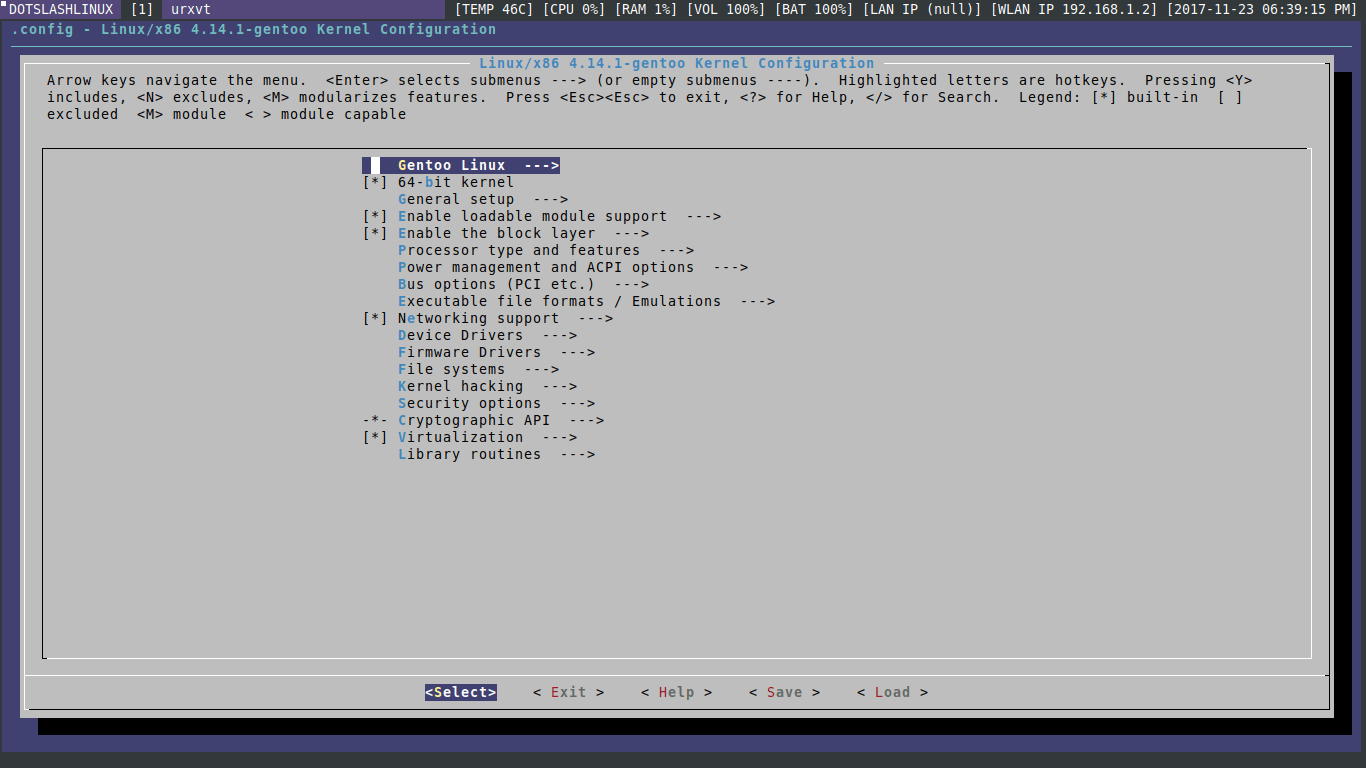
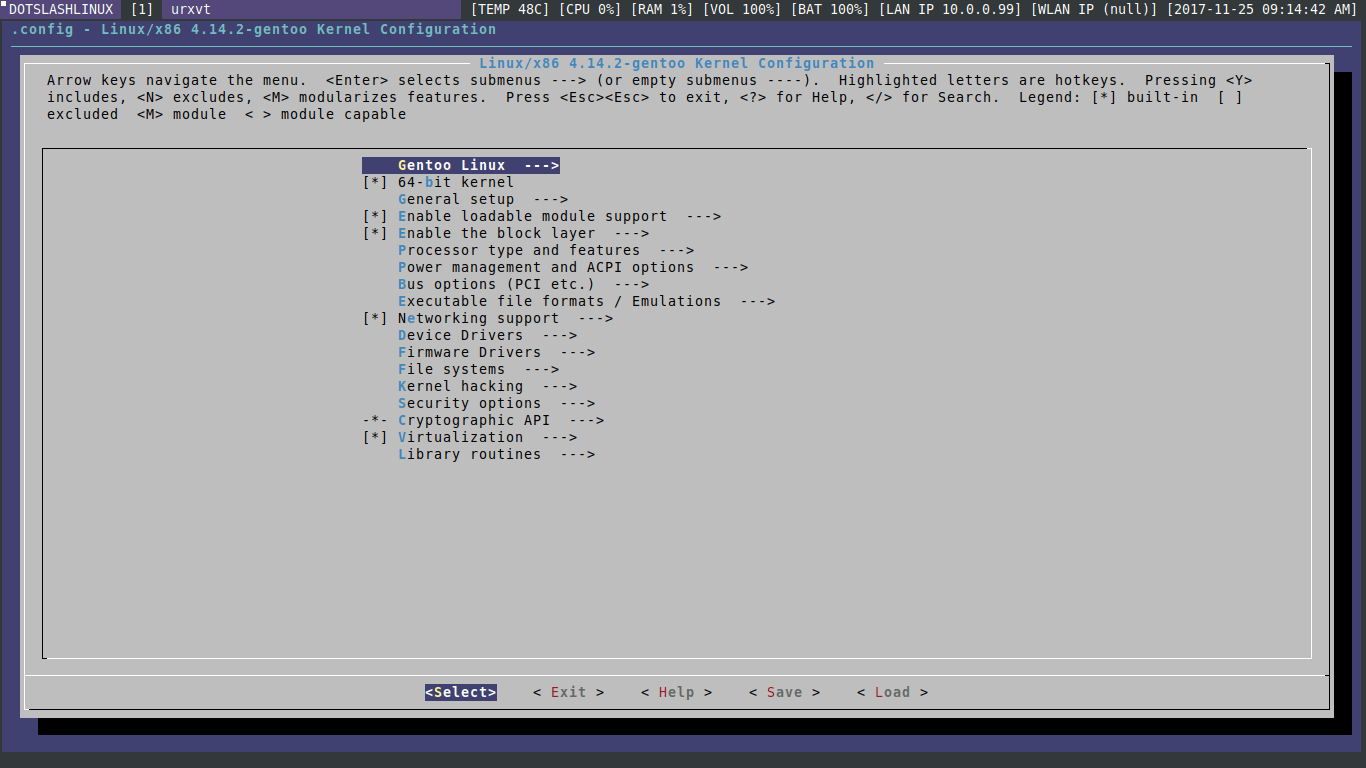
Updated Kernel Version to 4.14.2

Changed region(s): [[0.3075, 0.0, 0.8302, 0.0312], [0.9224, 0.0, 0.9839, 0.0312]]

diff --git a/layouts/_default/single.html b/layouts/_default/single.html
@@ -3,9 +3,9 @@
 <div class="box kernelmap">
   <pre><code class="language-properties">Kernel Sources:       sys-kernel/gentoo-sources
 
-Kernel Version:       4.14.1
+Kernel Version:       4.14.2
 
-Last Updated on:      23/11/2017
+Last Updated on:      25/11/2017
 
 Update Notice:        1- Added 'CONFIG_X86_5LEVEL' to 'Processor type and features  --->'
                       2- Added 'CONFIG_ORC_UNWINDER' to 'Kernel hacking  --->'

diff --git a/static/css/c.css b/static/css/c.css
@@ -89,7 +89,7 @@ img {
 }
 
 img:hover {
-  transform: scale(1.026);
+  transform: scale(1.025);
   border-color: #333;
 }
 
